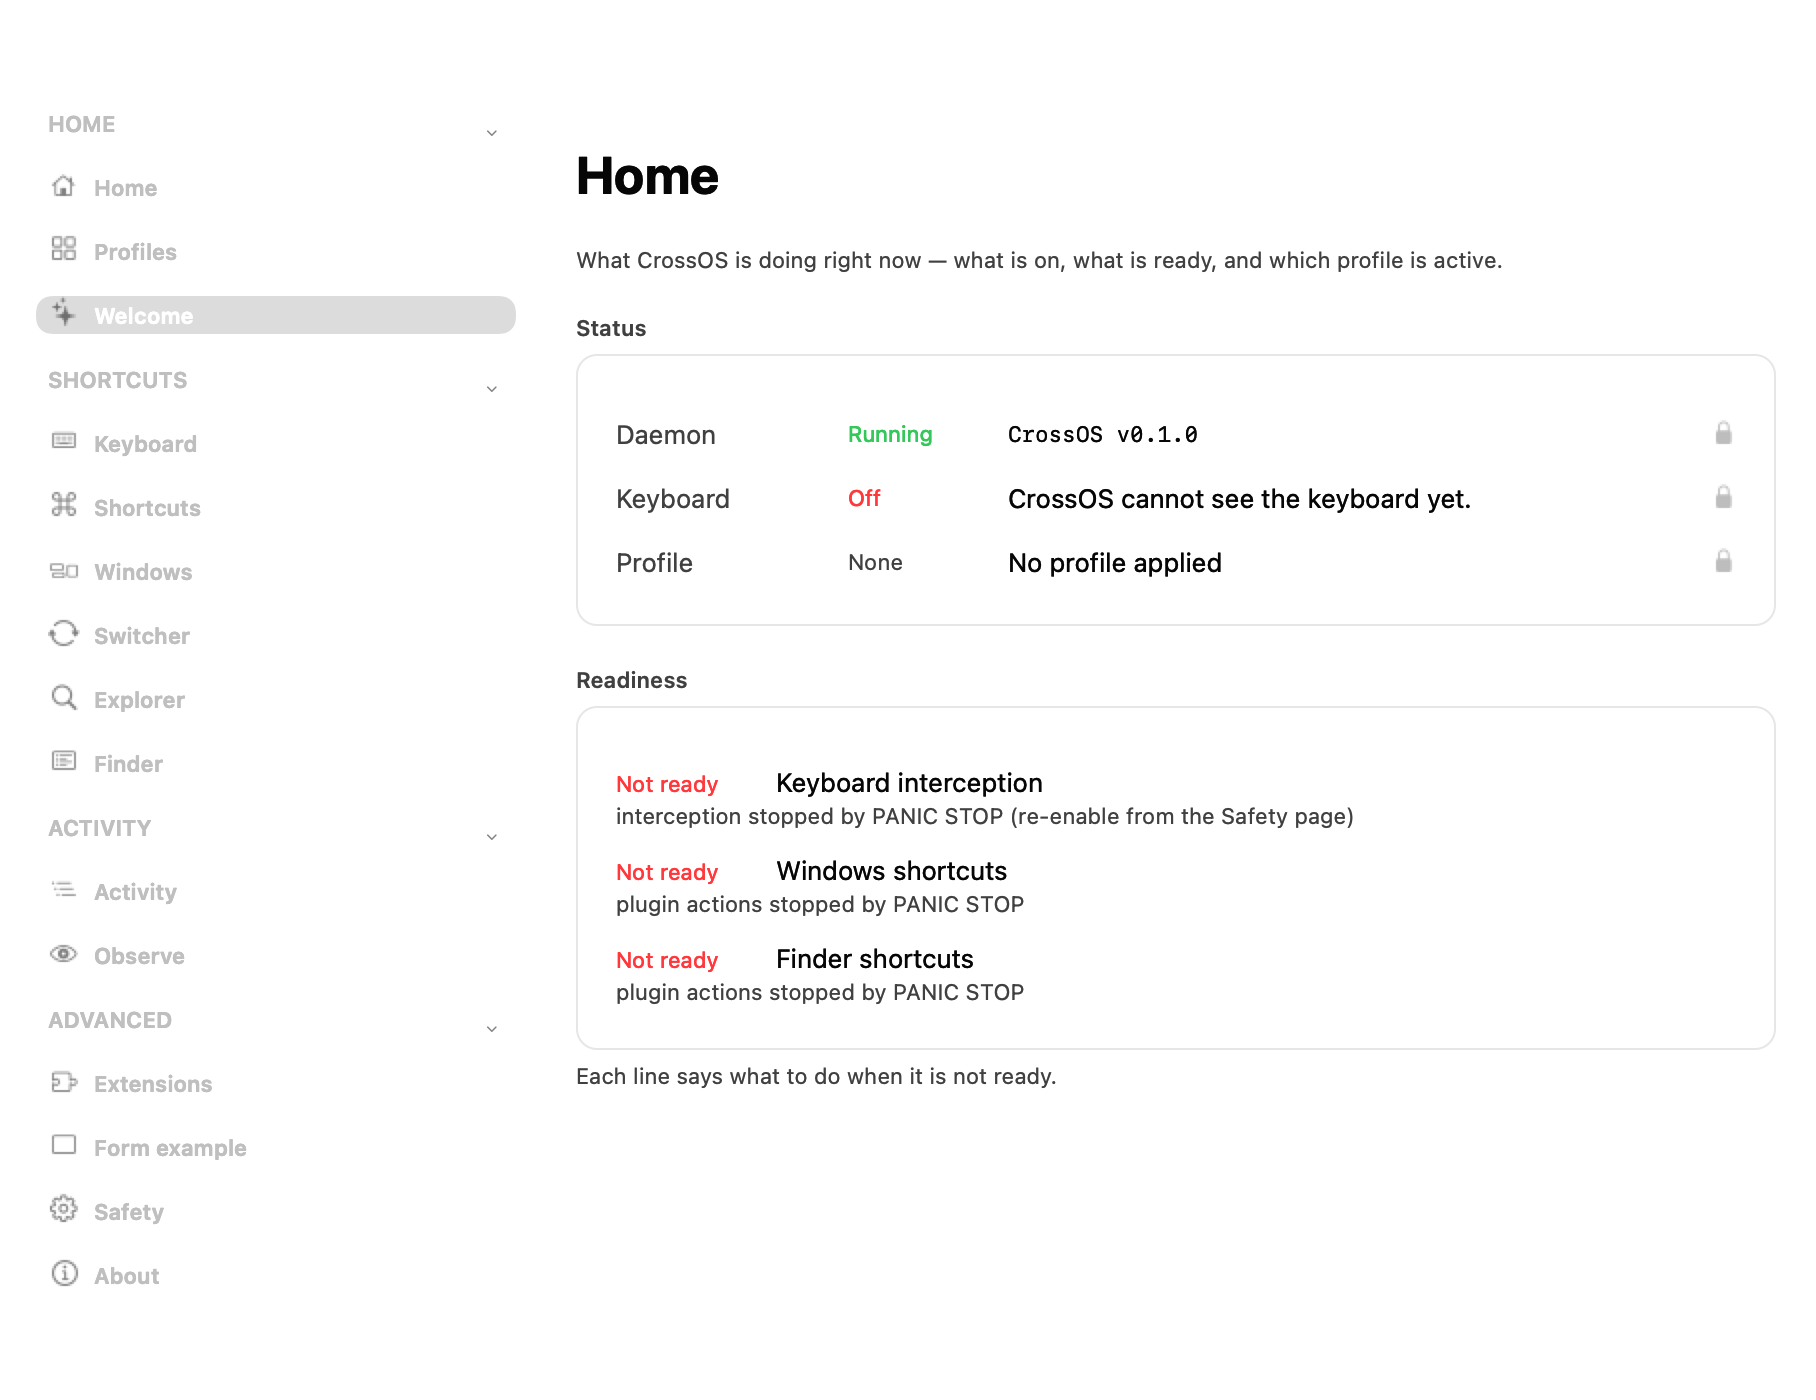
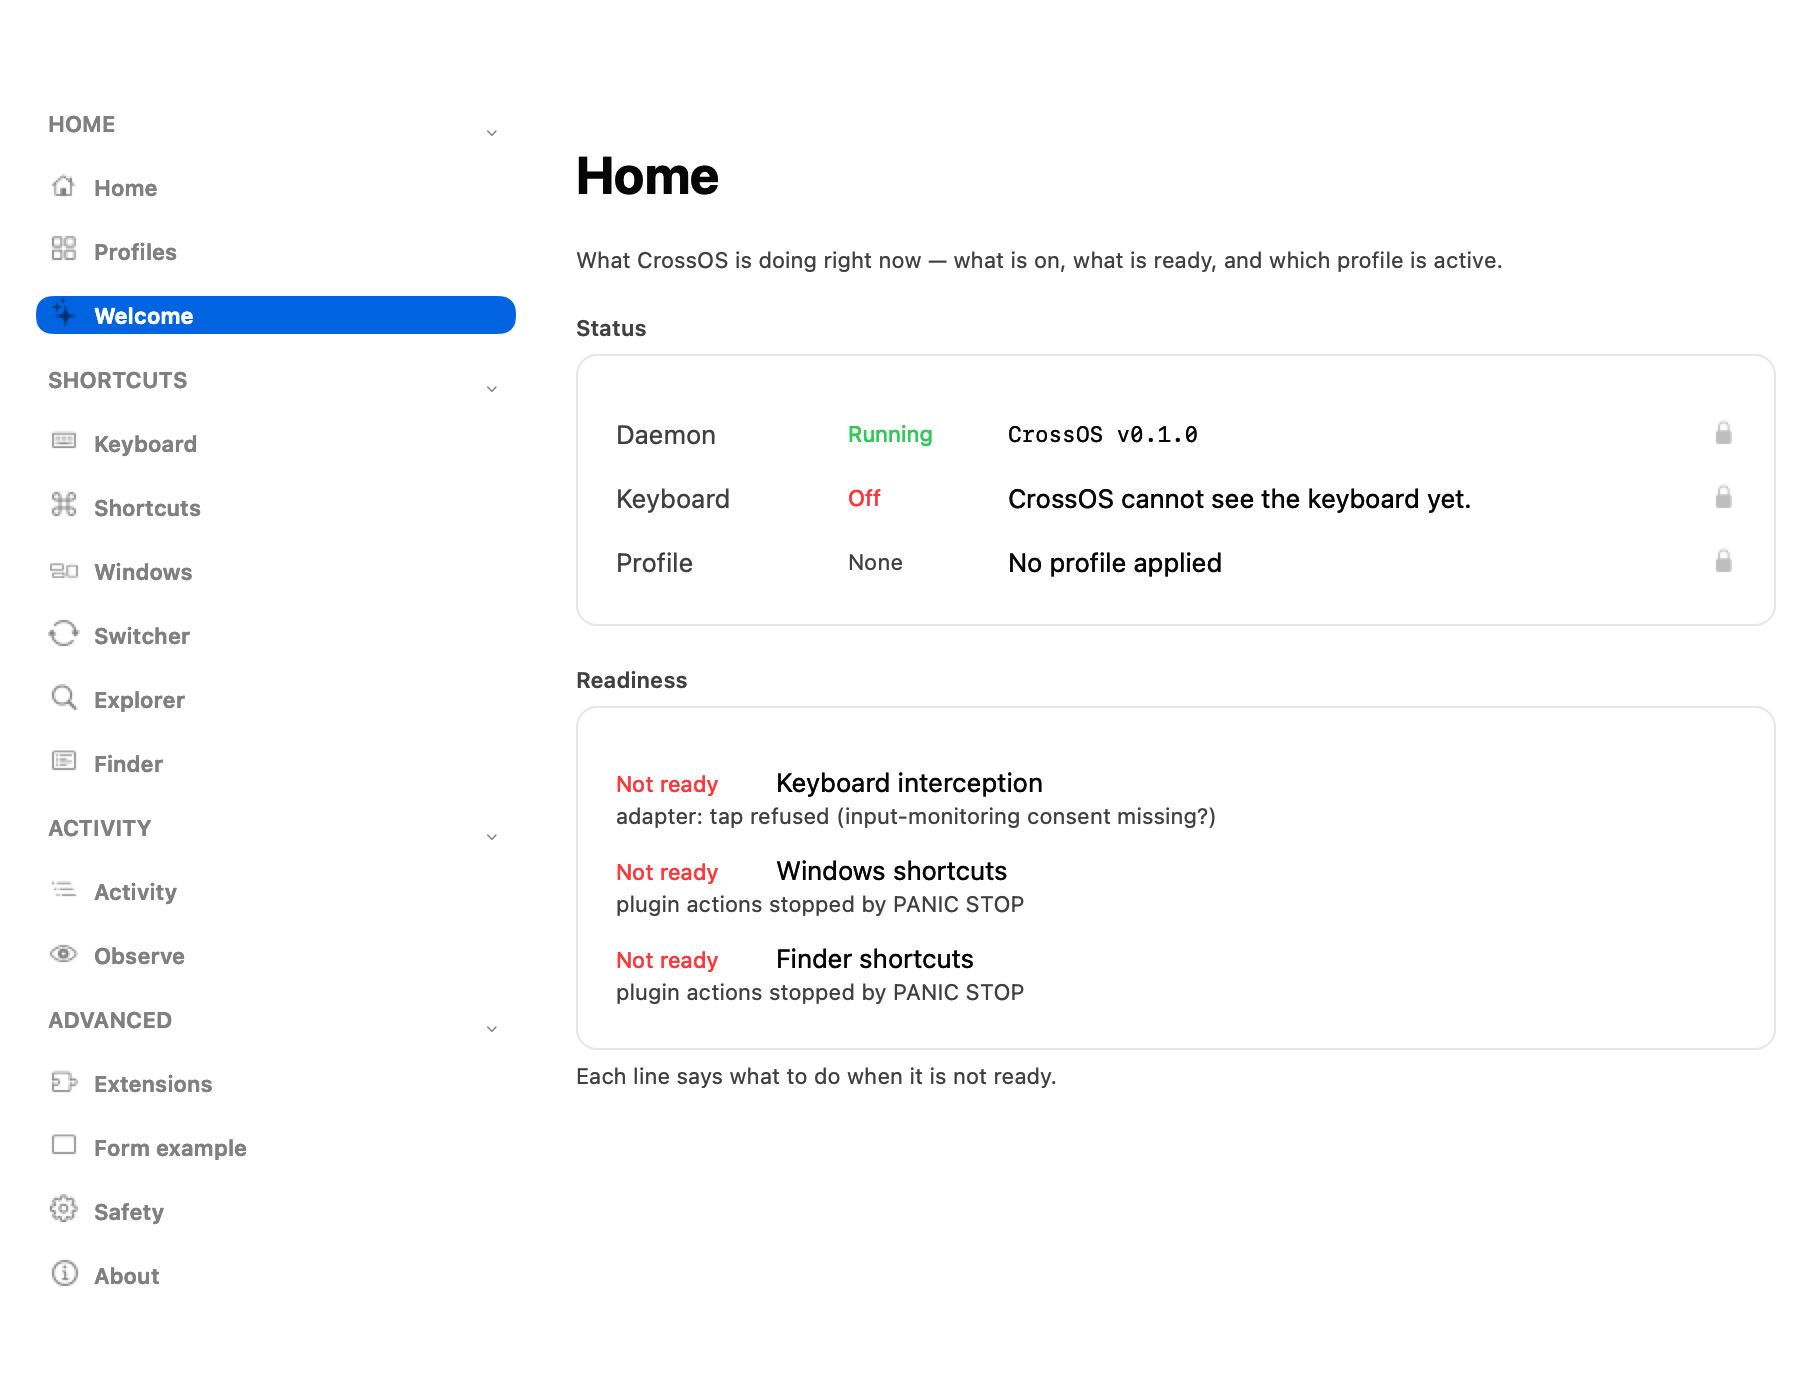
feat: a failure now says what to do about it
The error detail on `core.switcher` read:

    core.windows: rpc code -32603: adapter: accessibility permission denied

That is developer output on a user-facing screen. Nobody reading a
settings window knows what `-32603` is and nobody can act on
`core.windows`; what they can act on is the permission, and where to
grant it.

Known daemon failures are translated now, with the ACTION first and the
path to take:

    CrossOS needs Accessibility permission to see your windows.
    System Settings → Privacy & Security → Accessibility → add CrossOS,
    then turn it on and reopen this window.

    Reported by the daemon as: core.windows: rpc code -32603: …

The raw string is kept underneath in the secondary ink, for whoever is
going to file the bug. Nothing is swallowed: **an unrecognised error
passes through unchanged**, because inventing a friendly message for an
error nobody has described is how a real problem gets hidden behind a
plausible one.

Four failures are translated — accessibility, input monitoring, an RPC
method the daemon does not have (which is a bug in the app, and says so
rather than sending the reader to System Settings), and a daemon that is
not answering.

Verified: --audit 15 pages 0 fail; CoreTests 111 pass; core 26/26;
--click-test passes 3 buttons + 2 write paths + profile apply.

diff --git a/macos/Sources/CrossOSApp/CardControl.swift b/macos/Sources/CrossOSApp/CardControl.swift
@@ -202,7 +202,7 @@ final class ErrorView: NSStackView {
         headlineField.lineBreakMode = .byWordWrapping
         headlineField.maximumNumberOfLines = 0
 
-        let detailField = NSTextField(labelWithString: detail)
+        let detailField = NSTextField(labelWithString: Explain.daemon(detail))
         detailField.font = Typeface.caption
         detailField.textColor = Palette.secondaryInk
         detailField.lineBreakMode = .byWordWrapping
@@ -350,5 +350,65 @@ enum Humanize {
         }
         guard let first = out.first else { return out }
         return String(first).uppercased() + out.dropFirst()
+    }
+}
+
+/// Turn the daemon's error text into something a reader can act on.
+///
+/// **A raw RPC error is developer output on a user-facing screen.** Measured on
+/// `core.switcher`, the failure detail read:
+///
+///     core.windows: rpc code -32603: adapter: accessibility permission denied
+///
+/// Nobody reading a settings window knows what `-32603` is, and nobody can
+/// act on `core.windows`. What they can act on is the permission, and where
+/// to grant it — which is the whole point of saying it.
+///
+/// So the known failures are translated, the ACTION comes first, and the
+/// original string is kept underneath it in the secondary ink for whoever is
+/// going to file the bug. Nothing is swallowed: an unrecognised error passes
+/// through unchanged, because inventing a friendly message for an error nobody
+/// has described is how a real problem gets hidden behind a plausible one.
+enum Explain {
+    static func daemon(_ raw: String) -> String {
+        let lower = raw.lowercased()
+
+        if lower.contains("accessibility permission denied") {
+            return """
+            CrossOS needs Accessibility permission to see your windows.
+            System Settings → Privacy & Security → Accessibility → add \
+            CrossOS, then turn it on and reopen this window.
+
+            Reported by the daemon as: \(raw)
+            """
+        }
+        if lower.contains("input-monitoring") || lower.contains("input monitoring") {
+            return """
+            CrossOS needs Input Monitoring permission to read the keyboard.
+            System Settings → Privacy & Security → Input Monitoring → enable \
+            CrossOS, then reopen this window.
+
+            Reported by the daemon as: \(raw)
+            """
+        }
+        if lower.contains("no such method") {
+            return """
+            This build of CrossOS asks for something the daemon does not have.
+            That is a bug in the app, not something to fix on this machine.
+
+            Reported by the daemon as: \(raw)
+            """
+        }
+        if lower.contains("socket") || lower.contains("connection refused") {
+            return """
+            The daemon is not answering. Start it with ./scripts/run.sh \
+            --no-open, then reopen this window.
+
+            Reported by the daemon as: \(raw)
+            """
+        }
+        // Nothing matched, so nothing is claimed. A friendly message invented
+        // for an error nobody has described is worse than the error.
+        return raw
     }
 }
